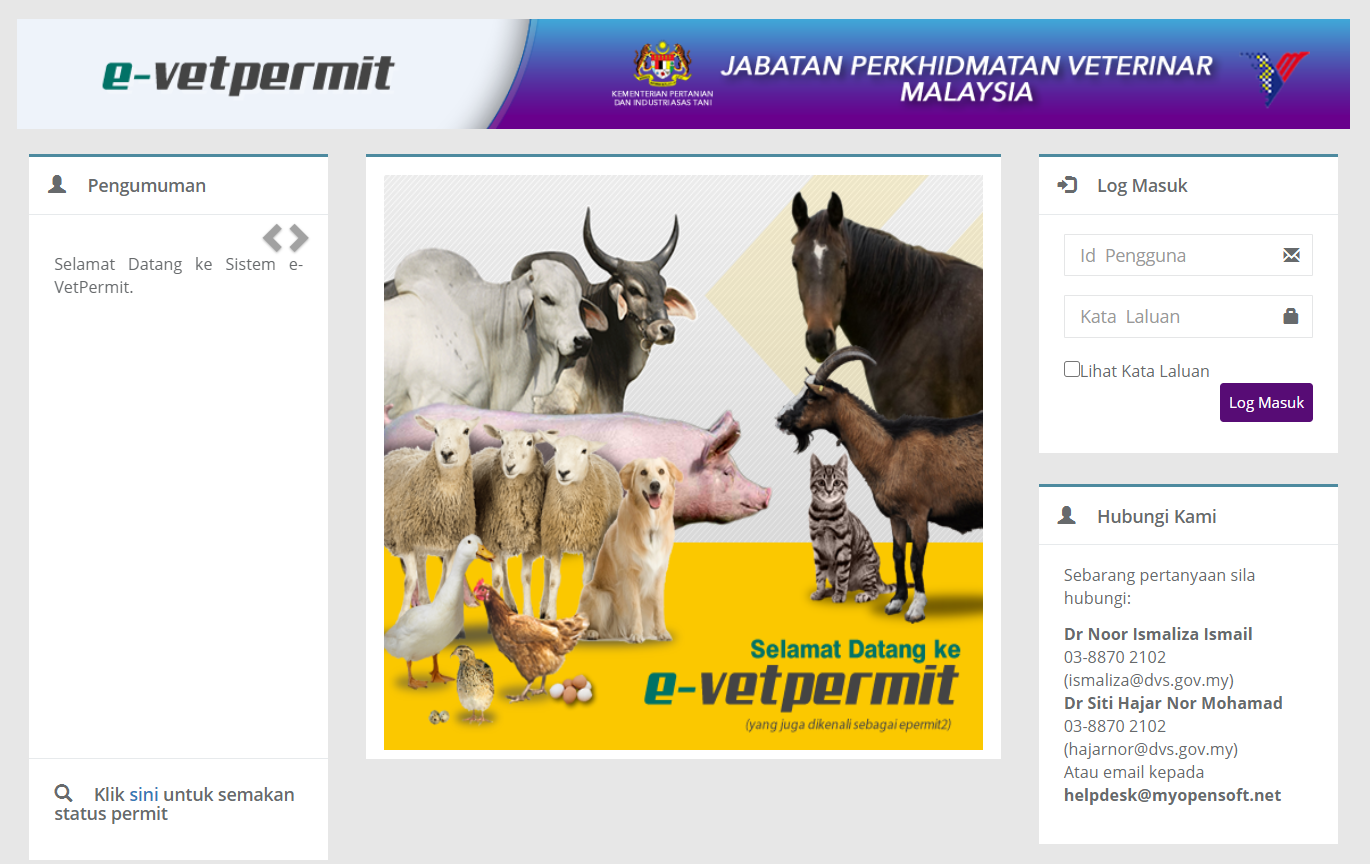
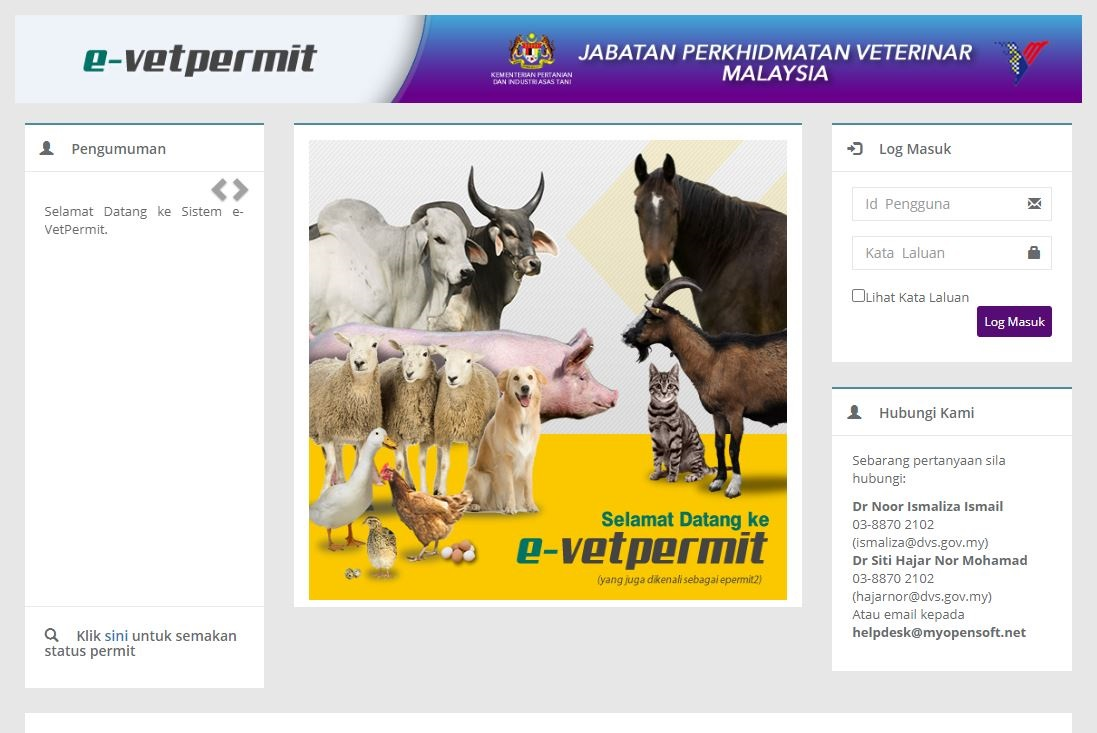
update index

diff --git a/index.html b/index.html
@@ -163,7 +163,7 @@
                 <p class="mb-0">E-vetpermit</p>
               </span>
             </span>
-            <img class="img-fluid" src="img/portfolio-2.jpg" width="1000" height="1000" alt="">
+            <img class="img-fluid" src="img/login.jpg" width="1000" height="1000" alt="">
           </a>
         </div>
         <div class="col-lg-6">
